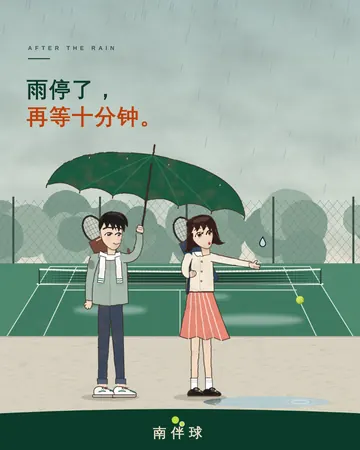
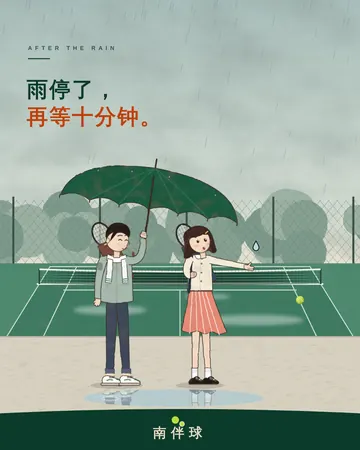
海报 85–86：退回上一版人物画法，只微调表情和发型（睫毛、柔边腮红、眼睛高光、一缕垂发、淡反光）
Claude-Session: https://claude.ai/code/session_014vi3eYmPjWCr2gwRMhjjif

Changed region(s): [[0.1222, 0.3111, 0.8861, 0.9333]]

diff --git a/marketing/storyfig85.py b/marketing/storyfig85.py
@@ -1,6 +1,5 @@
 """85 号的两个人：下班走来的女生、靠着路灯等她的男生（局部坐标，脚底 y=0，身高约 440）。"""
 from storybook import *
-from storyface import head
 
 
 def racket_in_bag(cx, cy, rot, bag, s=1.0):
@@ -34,8 +33,11 @@ def woman_walk():
     g = ''
     # 身后的球拍包（拍头从左肩后探出来）
     g += racket_in_bag(-34, -404, -32, '#2F5D4A')
-    hb, hf = head('f', 'long', 'smile', look=(1, 0))
-    g += f'<g transform="translate(6 -392)">{hb}</g>'
+    # 长发，被走路带起的风吹向身后
+    g += (f'<path d="M-2 -428 C-40 -432 -58 -404 -60 -374 C-62 -346 -84 -322 -120 -316 C-102 -308 -86 -304 -76 -298 '
+          f'C-98 -286 -116 -286 -134 -290 C-106 -270 -72 -272 -52 -292 C-40 -304 -30 -326 -22 -344 L22 -352 C36 -384 34 -416 -2 -428 Z" fill="{hair}" stroke="{OUT}" stroke-width="1.3"/>'
+          f'<path d="M-58 -340 C-80 -326 -110 -330 -138 -322 M-50 -316 C-70 -300 -100 -300 -122 -302 M-40 -366 C-60 -360 -86 -364 -104 -352" stroke="{hair}" stroke-width="2.2" fill="none" stroke-linecap="round"/>'
+          f'<path d="M-44 -380 C-50 -350 -66 -330 -90 -320" stroke="#6E4A3A" stroke-width="1.4" fill="none" opacity=".7"/>')
     # 后腿：脚跟抬起
     g += limb((-6, -228), (-30, -112), (-62, -30), 30, 17, pants)
     g += f'<path d="M-70 -42 L-52 -30 L-56 -22 L-74 -34 Z" fill="#46536A" stroke="{OUT}" stroke-width="1.2"/>'
@@ -66,7 +68,23 @@ def woman_walk():
     g += f'<path d="M70 -246 L86 -232" stroke="{OUT}" stroke-width="1.2"/>'
     g += hand(81, -232, -40, 'open')
     g += f'<rect x="72" y="-246" width="8" height="5" rx="1" fill="#D8C08A" transform="rotate(-40 76 -243)"/>'
-    g += f'<g transform="translate(6 -392)">{hf}</g>'
+    # 脖子 + 头
+    g += f'<path d="M-2 -362 L12 -362 L14 -338 L0 -338 Z" fill="{SKIN}" stroke="{OUT}" stroke-width="1.2"/>'
+    g += f'<ellipse cx="6" cy="-390" rx="29" ry="33" fill="{SKIN}" stroke="{OUT}" stroke-width="1.4"/>'
+    g += f'<ellipse cx="-14" cy="-384" rx="5" ry="7" fill="{SKIN}" stroke="{OUT}" stroke-width="1.1"/><circle cx="-15" cy="-375" r="2.4" fill="#D8B45A"/>'
+    # 刘海往后梳，几缕碎发
+    g += (f'<path d="M-24 -396 C-26 -430 22 -436 34 -404 C24 -412 10 -414 0 -406 C-8 -400 -16 -396 -24 -396 Z" fill="{hair}" stroke="{OUT}" stroke-width="1.3"/>'
+          f'<path d="M30 -408 C34 -396 33 -380 28 -368 C30 -382 29 -394 24 -404 Z" fill="{hair}" stroke="{OUT}" stroke-width="1"/>'
+          f'<path d="M-6 -420 C-20 -428 -36 -424 -48 -412" stroke="{hair}" stroke-width="2" fill="none" stroke-linecap="round"/>'
+          + gloss('M-12 -416 Q6 -428 24 -418', '#9A6A52'))
+    # 脸：笑眯眯的眼睛、腮红、小鼻子、嘴角上扬
+    g += (f'<path d="M5 -389 Q11 -395 17 -390 M23 -390 Q27.5 -394 31.5 -390" stroke="{OUT}" stroke-width="2.3" fill="none" stroke-linecap="round"/>'
+          f'<path d="M17 -390 l3 -2 M31.5 -390 l2.6 -2" stroke="{OUT}" stroke-width="1.3" stroke-linecap="round"/>'
+          f'<path d="M5 -399 Q11 -402 16 -400 M24 -400 Q28 -402 32 -399" stroke="#5A3A30" stroke-width="1.3" fill="none" stroke-linecap="round"/>'
+          + blush(10, -378, 9, 5) + blush(31, -378, 6, 4.4)
+          + f'<path d="M35 -386 C37 -382 37 -380 34 -379" stroke="{OUT}" stroke-width="1.3" fill="none"/>'
+          f'<path d="M18 -370 Q24 -365 29.5 -371" stroke="#B5524A" stroke-width="2" fill="none" stroke-linecap="round"/>'
+          f'<path d="M20.5 -367.6 Q24 -366 27 -368.5" stroke="#E9928A" stroke-width="1.6" fill="none" stroke-linecap="round" opacity=".8"/>')
     return g
 
 
@@ -94,10 +112,24 @@ def man_lean():
            + ''.join(f'<circle cx="-62" cy="{y}" r="16" fill="#C6EA3D" stroke="#9DBA2A" stroke-width="1"/><path d="M-76 {y - 6} Q-62 {y + 4} -48 {y - 6}" stroke="#fff" stroke-width="2" fill="none"/>' for y in (-512, -484, -456))
            + f'<rect x="-85" y="-540" width="46" height="12" rx="4" fill="#F4F1E6" stroke="{OUT}" stroke-width="1.4"/>')
     g += can + hand(-62, -436, 180, 'hold')
-    hb, hf = head('m', 'short', 'call', look=(1, 0), mirror=-1, hc='#1E1A1D', hl='#5A6680')
-    g += f'<g transform="translate(-4 -392)">{hf}</g>'
+    # 脖子、头
+    g += f'<path d="M-8 -364 L8 -364 L8 -340 L-8 -340 Z" fill="{SKIN}" stroke="{OUT}" stroke-width="1.2"/>'
+    g += f'<ellipse cx="-4" cy="-392" rx="30" ry="33" fill="{SKIN}" stroke="{OUT}" stroke-width="1.4"/>'
+    g += f'<ellipse cx="22" cy="-388" rx="5" ry="7" fill="{SKIN}" stroke="{OUT}" stroke-width="1.1"/>'
+    g += (f'<path d="M-32 -396 C-38 -432 0 -444 26 -428 C36 -420 36 -404 30 -392 C26 -404 16 -410 6 -408 C-4 -416 -20 -410 -32 -396 Z" fill="{hair}" stroke="{OUT}" stroke-width="1.3"/>'
+          f'<path d="M-14 -414 C-22 -404 -26 -396 -28 -386 C-20 -394 -14 -402 -8 -410 Z" fill="{hair}" stroke="{OUT}" stroke-width="1"/>'
+          f'<path d="M-2 -434 C-6 -444 2 -450 8 -446" stroke="{hair}" stroke-width="2.4" fill="none" stroke-linecap="round"/>'
+          + gloss('M-20 -424 Q-4 -436 14 -430', '#5A5A66'))
     # 围巾绕脖子 + 垂在胸前的一截
     g += (f'<path d="M-24 -358 C-8 -350 12 -350 26 -358 L26 -340 C10 -334 -10 -334 -24 -340 Z" fill="{scarf}" stroke="{OUT}" stroke-width="1.3"/>'
           f'<path d="M-14 -344 L-22 -284 L-6 -282 L0 -342 Z" fill="{scarf}" stroke="{OUT}" stroke-width="1.3"/>'
           f'<path d="M-22 -286 l-2 8 M-17 -285 l-1 8 M-12 -284 l0 8" stroke="{scarf}" stroke-width="2"/>')
+    # 脸：朝左喊她
+    g += (f'<ellipse cx="-20" cy="-392" rx="3.4" ry="3.9" fill="{OUT}"/><ellipse cx="-2" cy="-392" rx="3.4" ry="3.9" fill="{OUT}"/>'
+          f'<circle cx="-21" cy="-393.4" r="1.1" fill="#fff"/><circle cx="-3" cy="-393.4" r="1.1" fill="#fff"/>'
+          f'<path d="M-26 -401 Q-20 -404.5 -14 -402 M-7 -402 Q-1 -404.5 5 -401" stroke="{OUT}" stroke-width="2" fill="none" stroke-linecap="round"/>'
+          + blush(-27, -379, 6, 4, .4) + blush(6, -379, 7, 4.4, .4)
+          + f'<path d="M-30 -386 C-34 -382 -33 -379 -29 -378" stroke="{OUT}" stroke-width="1.3" fill="none"/>'
+          f'<path d="M-21 -371 Q-14 -369 -7 -371 Q-9 -362 -14 -362 Q-19 -362 -21 -371 Z" fill="#8C3A34"/>'
+          f'<path d="M-19.5 -370.4 Q-14 -369 -8.5 -370.4" stroke="#fff" stroke-width="1.4"/>')
     return g

diff --git a/marketing/storyfig86.py b/marketing/storyfig86.py
@@ -1,7 +1,6 @@
 """86 号的两个人：撑伞（伞歪向她、自己半边肩膀湿了）的男生，伸手出伞外试雨的女生。"""
 from storybook import *
 from storyfig85 import racket_in_bag
-from storyface import head
 
 
 def umbrella_man():
@@ -43,14 +42,24 @@ def umbrella_man():
     # 右臂举着伞柄
     g += limb((34, -334), (74, -330), (70, -392), 22, 15, jacket)
     g += hand(71, -398, 190, 'hold')
-    hb, hf = head('m', 'short', 'smile', look=(1.5, 1.2), hc='#1E1A1D', hl='#5A6680')
-    g += f'<g transform="translate(2 -392)">{hb}{hf}</g>'
+    # 头：低头看她，笑
+    g += f'<path d="M-8 -364 L8 -364 L8 -342 L-8 -342 Z" fill="{SKIN}" stroke="{OUT}" stroke-width="1.2"/>'
+    g += f'<ellipse cx="2" cy="-392" rx="30" ry="33" fill="{SKIN}" stroke="{OUT}" stroke-width="1.4"/>'
+    g += f'<ellipse cx="-24" cy="-388" rx="5" ry="7" fill="{SKIN}" stroke="{OUT}" stroke-width="1.1"/>'
+    g += (f'<path d="M-28 -392 C-36 -430 0 -444 24 -430 C38 -420 38 -404 32 -396 C24 -408 12 -412 0 -408 C-10 -414 -20 -406 -28 -392 Z" fill="{hair}" stroke="{OUT}" stroke-width="1.3"/>'
+          f'<path d="M-6 -414 C-12 -404 -16 -396 -17 -387 C-10 -395 -4 -403 2 -410 Z" fill="{hair}" stroke="{OUT}" stroke-width="1"/>'
+          + gloss('M-14 -424 Q2 -436 20 -430', '#5A5A66'))
+    g += (f'<path d="M6 -388 Q10 -392 14 -388 M22 -388 Q26 -392 30 -388" stroke="{OUT}" stroke-width="2.2" fill="none" stroke-linecap="round"/>'
+          f'<path d="M3 -400 Q9 -403.5 15 -401 M22 -401 Q27 -403.5 31 -400" stroke="{OUT}" stroke-width="2" fill="none" stroke-linecap="round"/>'
+          + blush(6, -377, 7, 4.4, .4) + blush(30, -377, 6, 4, .4)
+          + f'<path d="M33 -384 C36 -380 35 -378 32 -377" stroke="{OUT}" stroke-width="1.3" fill="none"/>'
+          f'<path d="M14 -368 Q20 -363 26 -368" stroke="#9A4A40" stroke-width="2" fill="none" stroke-linecap="round"/>')
     return g
 
 
 def rain_girl():
     hair, card, card_d, skirt = '#3A2520', '#F6EEDC', '#E2D6BC', '#E98C78'
-    g = racket_in_bag(-38, -400, -26, '#2F4A6A') + '<!--HB-->'
+    g = racket_in_bag(-38, -400, -26, '#2F4A6A')
     # 腿、白袜、玛丽珍鞋
     g += limb((-10, -196), (-12, -100), (-14, -26), 24, 13, SKIN)
     g += limb((12, -196), (18, -100), (22, -26), 24, 13, SKIN)
@@ -76,7 +85,18 @@ def rain_girl():
     # 右手伸到伞外，掌心朝上接雨
     g += limb((28, -336), (80, -324), (124, -318), 20, 13, card)
     g += hand(126, -320, 0, 'palm')
-    hb, hf = head('f', 'bob', 'o', look=(0.5, -2.2), tilt=-12, hc='#2E1E1A', hl='#8A6050')
-    g = g.replace('<!--HB-->', f'<g transform="translate(4 -390)">{hb}</g>')
-    g += f'<g transform="translate(4 -390)">{hf}</g>'
+    # 头仰起来看天
+    g += f'<g transform="rotate(-12 4 -362)">'
+    g += (f'<path d="M-36 -392 C-42 -436 34 -444 40 -394 L44 -352 C36 -344 28 -350 24 -358 L-22 -358 C-28 -348 -38 -346 -46 -352 Z" fill="{hair}" stroke="{OUT}" stroke-width="1.3"/>'
+          f'<path d="M-44 -354 C-40 -350 -34 -350 -30 -354 M42 -354 C38 -350 32 -350 28 -354" stroke="{hair}" stroke-width="2.4" fill="none" stroke-linecap="round"/>')
+    g += f'<path d="M-2 -364 L12 -364 L12 -340 L-2 -340 Z" fill="{SKIN}" stroke="{OUT}" stroke-width="1.2"/>'
+    g += f'<ellipse cx="4" cy="-388" rx="28" ry="32" fill="{SKIN}" stroke="{OUT}" stroke-width="1.4"/>'
+    g += (f'<path d="M-30 -396 C-30 -430 34 -434 36 -396 C26 -404 22 -398 16 -404 C10 -398 2 -404 -4 -398 C-12 -404 -20 -398 -30 -396 Z" fill="{hair}" stroke="{OUT}" stroke-width="1.3"/>')
+    g += (gloss('M-18 -416 Q4 -428 26 -416', '#9A6A52')
+          + f'<path d="M24 -404 l7 -4" stroke="#E9C46A" stroke-width="3" stroke-linecap="round"/>'
+          f'<ellipse cx="0" cy="-386" rx="3.6" ry="4.2" fill="{OUT}"/><ellipse cx="20" cy="-386" rx="3.6" ry="4.2" fill="{OUT}"/>'
+          f'<circle cx="1" cy="-388" r="1.3" fill="#fff"/><circle cx="21" cy="-388" r="1.3" fill="#fff"/>'
+          + blush(-6, -375, 8, 4.6) + blush(26, -375, 8, 4.6)
+          + f'<ellipse cx="11" cy="-366" rx="2.8" ry="3.4" fill="#A8443C"/>')
+    g += '</g>'
     return g

diff --git a/marketing/posters/p86_rain_ten_minutes.py b/marketing/posters/p86_rain_ten_minutes.py
@@ -39,15 +39,15 @@ def svg():
     rain = ''.join(f'<path d="M{x:.0f} {y:.0f} l-6 {random.uniform(18, 34):.0f}"/>' for x, y in
                    [(x, y) for x, y in [(random.uniform(0, 1080), random.uniform(0, 1) ** 2.2 * 640) for _ in range(70)] if not (x < 520 and 100 < y < 420)])
     # 角色 + 伞
-    gy = 1192
-    xm, xr, sc = 330, 600, 1.25
+    gy = 1156
+    xm, xr, sc = 350, 600, 1.12
     def pair(sfx):
         return (f'<g transform="translate({xm} {gy}) scale({sc})" filter="url(#wc86)"><ellipse rx="70" ry="9" fill="#000" opacity=".14"/>{umbrella_man()}</g>'
                 f'<g transform="translate({xr} {gy}) scale({sc})" filter="url(#wc86)"><ellipse rx="64" ry="9" fill="#000" opacity=".14"/>{rain_girl()}</g>')
     umb = ''
     drop = f'<path transform="translate({xr + 150*sc:.0f} {gy - 372*sc:.0f})" d="M0 -16 Q9 -2 9 4 A9 9 0 0 1 -9 4 Q-9 -2 0 -16Z" fill="#BFD9E4" stroke="#171412" stroke-width="2.4" filter="url(#rough2)"/>'
     # 前景地面 + 水洼倒影
-    pud = '<ellipse cx="800" cy="1206" rx="190" ry="17"/>'
+    pud = '<ellipse cx="520" cy="1194" rx="270" ry="26"/>'
     refl = f'<g clip-path="url(#pc86)" opacity=".38"><g transform="translate(0 {2*gy}) scale(1 -1)">{pair("x")}</g></g>'
     body = f'''
 <defs>
@@ -69,7 +69,7 @@ def svg():
 {hatch(500, 0, by, W, 1350, '#A59C86', .3, ang=-10, ln=(12, 26))}
 <g fill="#B8CDD0">{pud}</g>
 {refl}
-<g fill="none" stroke="#F4F7F2" stroke-width="2" opacity=".7"><ellipse cx="900" cy="1206" rx="26" ry="5"/><ellipse cx="900" cy="1206" rx="48" ry="9" opacity=".5"/></g>
+<g fill="none" stroke="#F4F7F2" stroke-width="2" opacity=".7"><ellipse cx="330" cy="1196" rx="26" ry="5"/><ellipse cx="330" cy="1196" rx="48" ry="9" opacity=".5"/></g>
 {pair('')}
 {umb}
 {drop}

diff --git a/marketing/posters/p85_tram_after_work.py b/marketing/posters/p85_tram_after_work.py
@@ -60,8 +60,8 @@ def svg():
 </g>
 <circle cx="{lx}" cy="692" r="40" fill="#FFF0B8" opacity=".7" filter="url(#bl14)"/>
 <circle cx="{lx}" cy="692" r="10" fill="#FFF8DA"/>'''
-    her = f'<g transform="translate(320 1250) scale(1.28)" filter="url(#wc85)"><ellipse cx="0" cy="0" rx="80" ry="9" fill="#000" opacity=".18"/>{woman_walk()}</g>'
-    him = f'<g transform="translate(846 1232) scale(1.25)" filter="url(#wc85)"><ellipse cx="20" cy="0" rx="70" ry="9" fill="#000" opacity=".16"/>{man_lean()}</g>'
+    her = f'<g transform="translate(350 1232) scale(1.05)" filter="url(#wc85)"><ellipse cx="0" cy="0" rx="80" ry="9" fill="#000" opacity=".18"/>{woman_walk()}</g>'
+    him = f'<g transform="translate(850 1212) scale(1.05)" filter="url(#wc85)"><ellipse cx="20" cy="0" rx="70" ry="9" fill="#000" opacity=".16"/>{man_lean()}</g>'
     body = f'''
 <defs>
  <linearGradient id="bg85" x1="0" y1="0" x2="0" y2="1"><stop offset="0" stop-color="#0D2A3A"/><stop offset=".45" stop-color="#1D4F5A"/><stop offset=".68" stop-color="#6B7F86"/><stop offset=".78" stop-color="#C9A28E"/></linearGradient>

diff --git a/marketing/storybook.py b/marketing/storybook.py
@@ -156,3 +156,19 @@ def wc_filter(fid, seed=4):
             f'<feColorMatrix in="n" values="0 0 0 0 .25 0 0 0 0 .15 0 0 0 0 .1 0 0 0 -.6 .3" result="m"/>'
             f'<feComposite in="m" in2="d" operator="in" result="s"/>'
             f'<feMerge><feMergeNode in="d"/><feMergeNode in="s"/></feMerge></filter>')
+
+
+_bn = [0]
+
+
+def blush(cx, cy, rx, ry, op=.6):
+    """柔边腮红（径向渐变），比平涂的椭圆自然。"""
+    _bn[0] += 1
+    i = f'bsh{_bn[0]}'
+    return (f'<radialGradient id="{i}"><stop offset="0" stop-color="#F08C86" stop-opacity="{op}"/><stop offset="1" stop-color="#F08C86" stop-opacity="0"/></radialGradient>'
+            f'<ellipse cx="{cx}" cy="{cy}" rx="{rx}" ry="{ry}" fill="url(#{i})"/>')
+
+
+def gloss(d, color, op=.28, w=1.8):
+    """头发上一道细细的反光。"""
+    return f'<path d="{d}" stroke="{color}" stroke-width="{w}" fill="none" stroke-linecap="round" opacity="{op}"/>'

diff --git a/marketing/storyface.py b/marketing/storyface.py
@@ -1,4 +1,4 @@
-"""绘本人物 v3 的头（11-10）：漫画式五官——有虹膜和高光的眼睛、眉形、尖下巴的脸型、一簇一簇的发梢和发丝高光。
+"""【已弃用 11-10：用户评「太丑、有点吓人」】绘本人物 v3 的漫画式头部，只留作记录，别再用。
 局部坐标：脸中心 (0,0)，脸高约 70；默认 3/4 侧脸朝右，mirror=-1 朝左。
 返回 (后发, 前面的头)：后发要画在身体后面。
 """

diff --git a/.claude/skills/nanbanqiu-poster/品味手册.md b/.claude/skills/nanbanqiu-poster/品味手册.md
@@ -99,4 +99,4 @@
 - 10-30 用户发 78 号图：「这个小毛设计得很好」→ 以 figure3（立体球 + 黑细线手脚 + face2 脸）为标准，去掉眉毛 / 睫毛 / 头顶毛；小绒只换成嫩粉球 + 小蝴蝶结。v4（mao4）弃用。
 - 11-10 绘本风（85–86）反馈：主角要用年轻男女（读者才有代入感、觉得是自己的故事），不用小毛；画面要有故事（谁在等谁、手里拿着什么），单个角色站着不知道在干嘛就单调；看不出是什么的东西（85 首版左下角的灌木团）删掉。绘本小人用 `marketing/storybook.py` 的 `person()`。
 - 11-10 二轮：人物要好看、有个性，细节（手的动作、鞋子）要认真做。参考几米和水彩人物插画的长处——修长比例、风吹起头发和衣摆、有拇指的手、系带球鞋 / 玛丽珍鞋 + 白袜；别人的角色有版权，不照搬，只学画法。人物在 `storyfig85.py` `storyfig86.py`，零件（limb / hand / sneaker / maryjane / wc_filter）在 `storybook.py`。
-- 11-10 三轮：脸要好看、帅、让人心动，发型要有细节 → 漫画式五官（`storyface.head()`：虹膜 + 两个高光 + 粗上眼线、女生外眼角上挑、男生剑眉、尖下巴、一簇簇弧形发梢 + 发丝高光）；人物放大到身高约 560px，脸才看得清。
+- 11-10 三轮：漫画式大眼睛 + 尖下巴 + 尖刺发梢（`storyface.py`）被评「太丑、有点吓人」，已弃用。要的是在简洁圆脸画法上**局部微调**：笑眼加一点睫毛、柔边腮红、嘴唇一点颜色、眼睛加高光；发型只加一缕垂下的头发 + 很淡的反光（`storybook.gloss / blush`）。美而自然，不夸张、不拼凑。
